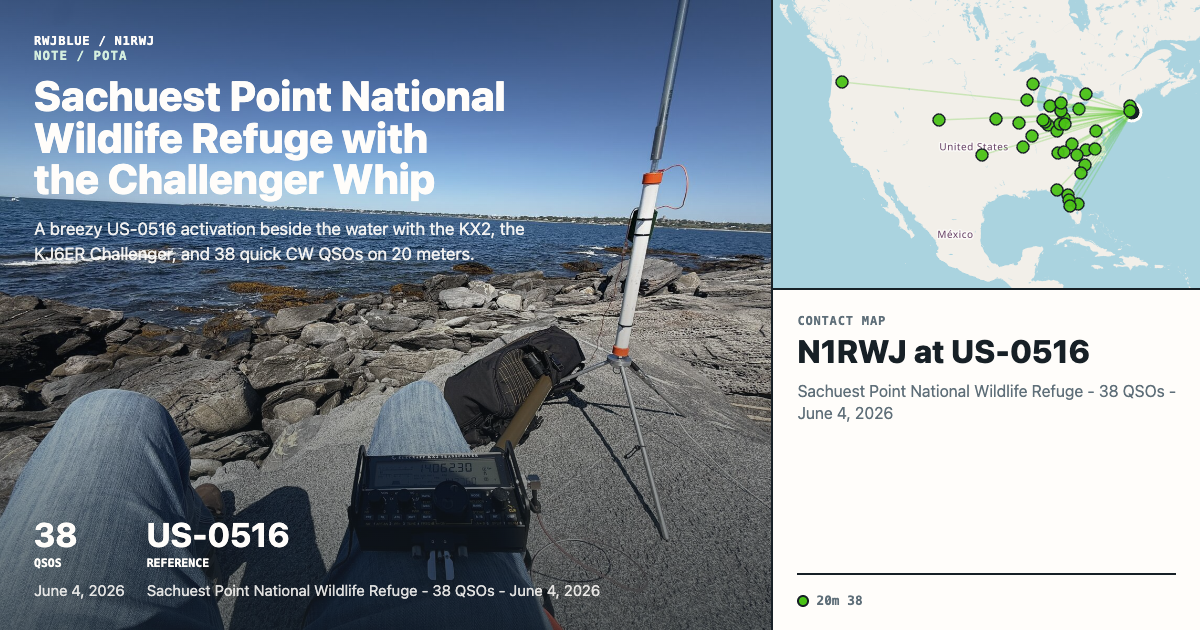
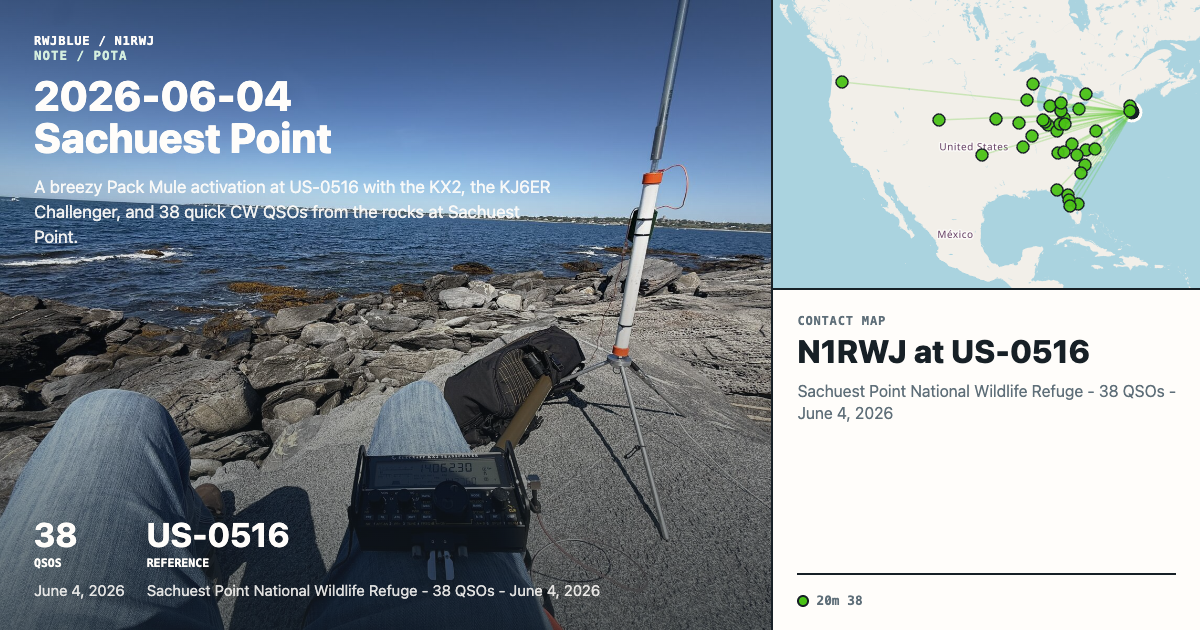
Refine Sachuest Point field note
Tighten the Sachuest Point Pack Mule note after review by shortening the title, improving the setup and contact prose, and regenerating the share image.

Also update the POTA field-report skill so future notes link park references consistently wherever they appear.

Changed region(s): [[0.0308, 0.1206, 0.4625, 0.4222]]

diff --git a/src/content/notes/2026-06-04-sachuest-point-national-wildlife-refuge-pota.md b/src/content/notes/2026-06-04-sachuest-point-national-wildlife-refuge-pota.md
@@ -1,5 +1,5 @@
 ---
-title: Sachuest Point Pack Mule with the Challenger Whip
+title: 2026-06-04 Sachuest Point
 date: 2026-06-04
 summary: "A breezy Pack Mule activation at US-0516 with the KX2, the KJ6ER Challenger, and 38 quick CW QSOs from the rocks at Sachuest Point."
 shareImageHero: /images/pota/2026-06-04-sachuest-point-national-wildlife-refuge-pota/kx2-challenger-operating-position.jpg
@@ -13,20 +13,20 @@ tags:
   - us-0516
 ---
 
-Sachuest Point National Wildlife Refuge, [US-0516](https://pota.app/#/park/US-0516),
+[Sachuest Point National Wildlife Refuge, US-0516](https://pota.app/#/park/US-0516),
 was a good fit for a compressed morning. I had to be on Aquidneck Island anyway
 to pick up baked goods for my son's high school graduation, and I had about an
-hour to kill while the order was being finished. I hiked a little over half a
+hour and a half while the order was being finished. I hiked a little over half a
 mile each way into the refuge, out to Sachuest Point itself, which also made the
-activation count for Pack Mule. The weather made the decision easy: mid-60s
-when I arrived, mid-70s by the time I left, bright morning light, and a steady
-breeze coming in off the water.
+activation qualify for [Pack Mule](https://pota.news/pack-mule-award/). It was
+a beautiful morning: mid-60s when I arrived, mid-70s by the time I left, bright
+morning light, and a steady breeze coming in off the water.
 
 ## At a glance
 
-- **Where:** Sachuest Point National Wildlife Refuge, US-0516, Aquidneck Island
+- **Where:** [Sachuest Point National Wildlife Refuge, US-0516](https://pota.app/#/park/US-0516), Aquidneck Island
 - **When:** June 4, 2026, 14:16 to 15:23 UTC
-- **Activation:** Pack Mule; 38 CW QSOs on 20 meters
+- **Activation:** [Pack Mule](https://pota.news/pack-mule-award/); 38 CW QSOs on 20 meters
 - **Radio:** Elecraft KX2 with the internal battery
 - **Antenna:** KJ6ER Challenger 25-foot whip on the REZ Antenna Systems mini tripod
 - **Power:** 5 watts from the KX2 internal battery, about 0.4 Ah used
@@ -34,12 +34,12 @@ breeze coming in off the water.
 
 ## Field notes
 
-Sachuest is a wildlife refuge, so I treated the setup rules more strictly than
-I would at a typical park. No stakes in the ground, and no wires in trees. That
-ruled out the usual thrown wire or staked mast setup, so I used the KJ6ER
-Challenger instead. It is essentially a 25-foot whip arranged like an
-off-center-fed dipole, and it screwed into the small REZ tripod cleanly enough
-to make a compact, no-impact station.
+[Sachuest Point National Wildlife Refuge, US-0516](https://pota.app/#/park/US-0516),
+has stricter setup rules than a typical park. No stakes in the ground, and no
+wires in trees. The Challenger is a great antenna and I use it often, but this
+site changed the base rather than the antenna: instead of staking it into the
+ground, I screwed the KJ6ER Challenger into the small REZ tripod and kept the
+whole station no-impact.
 
 I kept walking until I was out near the point, then stepped onto the big rocks
 along the shoreline and found one large, flat slab that worked like a natural
@@ -47,12 +47,19 @@ operating platform. The chair, radio, tripod, and antenna all fit on the rock,
 and the open water made the site feel much more exposed than a typical inland
 park.
 
+<div class="photo-grid photo-grid--single">
+  <img src="/images/pota/2026-06-04-sachuest-point-national-wildlife-refuge-pota/rocky-point-ocean-view.jpg" alt="Large flat shoreline rock used as the operating platform at Sachuest Point">
+</div>
+
 The only real mechanical concern was the wind. The operating spot was right on
 the water, and the breeze was steady enough that I did not want to trust the
 tripod on its own. Once the bag was unpacked, I set it over the tripod leg that
-was pointed into the wind. That worked perfectly for this site because the
-ocean breeze had one clear direction. I would not count on the same trick in
-swirling wind, but for a coastal morning like this it was simple and effective.
+was pointed into the wind. The bag probably weighs around 30 pounds fully
+loaded, and even after unpacking it still had at least 20 pounds of gear in it.
+Being a habitual over-packer helped for once. That worked perfectly for this
+site because the ocean breeze had one clear direction. I would not count on the
+same trick in swirling wind, but for a coastal morning like this it was simple
+and effective.
 
 <div class="photo-grid">
   <img src="/images/pota/2026-06-04-sachuest-point-national-wildlife-refuge-pota/challenger-station-shoreline.jpg" alt="KJ6ER Challenger whip on a mini tripod at the rocky Sachuest Point shoreline">
@@ -60,9 +67,12 @@ swirling wind, but for a coastal morning like this it was simple and effective.
 </div>
 
 I used the KX2 on its internal battery with the KXPD2 paddle and headphones.
-The headphones mattered. The wind and the waves made the spot beautiful, but
-they also made copy harder than it would have been in a quiet field or wooded
-site.
+The radio was balanced on my leg for the whole run, which worked, but it was
+the finicky part of the operating position. Every time I shifted I was aware
+that the KX2 could slide or tip if I was not careful. The headphones were not
+optional at that spot. The wind and surf were part of what made the morning so
+good, but they would have made weak CW much harder to copy through the KX2
+speaker alone.
 
 Once I found a place on 20 meters, the contacts came fast. I had only planned
 for about an hour, and the log filled almost continuously: 38 QSOs from
@@ -79,28 +89,32 @@ more and repeatedly calling CQ much less.
 CW copy felt better than it has on some recent activations. I still needed
 repeats, especially when a few stations came back at once, but I was able to
 pull one or two letters out of the pileups and build from there. I also copied
-several callsigns cleanly on the first pass. N8JMS and KF8CNK both made it in.
-Conor, KF8CNK, was camping in Michigan with limited cell service, which made
-that one especially fun to catch.
+several callsigns cleanly on the first pass.
 
-One small CW detail still makes me grin: when friends send a proper roger with
-that elongated dah in the R, it sounds fantastic. I cannot really send it from
-paddles without switching into a bug-style mode, but hearing it makes me want
-to spend more time with a straight key, bug, or cootie key.
+It was great to get a few friends in the log this morning also. Today I got
+some friends from Discord [N8JMS](https://www.qrz.com/db/N8JMS) and
+[KF8CNK](https://www.qrz.com/db/KF8CNK), along with
+[N1BS](https://www.qrz.com/db/N1BS) (a local Rhode Island ham who has been
+helping me get into RI POTA and CW generally). It is always fun to get people I
+know in the log. Conor, KF8CNK, has been camping in another POTA park in
+Michigan with limited cell service, it was great to get him for a park-to-park.
+
+One small CW detail still makes me grin: when folks send me the [proper
+roger](https://www.youtube.com/shorts/vQuyDHZ7Wv0) with that elongated dah in
+the R, it sounds fantastic. I cannot really send it from paddles without
+switching into a bug-style mode, but hearing it makes me want to spend more
+time with a straight key, bug, or cootie key. Thanks for the proper roger
+N8JMS!
 
 <div class="photo-grid">
   <img src="/images/pota/2026-06-04-sachuest-point-national-wildlife-refuge-pota/operator-rocky-shoreline.jpg" alt="N1RWJ at the rocky Sachuest Point shoreline after the activation">
   <img src="/images/pota/2026-06-04-sachuest-point-national-wildlife-refuge-pota/beach-roses-shoreline.jpg" alt="Pink beach roses blooming along the Sachuest Point shoreline trail">
 </div>
 
-<div class="photo-grid photo-grid--single">
-  <img src="/images/pota/2026-06-04-sachuest-point-national-wildlife-refuge-pota/rocky-point-ocean-view.jpg" alt="Rocky ocean view from the Sachuest Point operating area">
-</div>
-
 ## What worked
 
-- The Challenger and mini tripod gave me a no-stakes, no-tree setup that fit the refuge rules.
-- The half-mile-plus hike each way and 38 QSOs made this a Pack Mule activation.
+- The Challenger on the mini tripod gave me a no-stakes, no-tree setup that fit the refuge rules.
+- The half-mile-plus hike each way and 38 QSOs made this a [Pack Mule](https://pota.news/pack-mule-award/) activation.
 - The flat shoreline rock made a stable natural platform for the chair, radio, and antenna.
 - Anchoring the windward tripod leg with the gear bag was enough for the steady coastal breeze.
 - Headphones were the right choice with wind and surf noise at the operating spot.
@@ -109,5 +123,6 @@ to spend more time with a straight key, bug, or cootie key.
 ## To adjust next time
 
 - Do not assume the bag-on-tripod-leg trick will work unless the wind has one stable direction.
-- Bring the Challenger setup back for other no-stakes or no-tree sites.
+- Keep the tripod base option handy for other no-stakes or no-tree sites.
+- Find a kneeboard or leg strap so the KX2 is not just balanced on my leg.
 - Keep practicing pileup copy; pulling partial calls out of the noise is starting to feel more repeatable.

diff --git a/.agents/skills/pota-field-report/SKILL.md b/.agents/skills/pota-field-report/SKILL.md
@@ -102,6 +102,12 @@ Good field reports usually include:
 - One or two grounded observations about conditions, ergonomics, or workflow.
 - A short note about what to repeat or adjust next time.
 
+When naming a POTA park with its reference anywhere in the note, link that
+park/reference text to the POTA park page, not only section headings. This
+includes first mentions, "At a glance" location bullets, and later repeated
+references when the park name/reference is useful to the reader:
+`[Park Name, US-1234](https://pota.app/#/park/US-1234)`.
+
 Prefer:
 
 - "I set the wire low because the site was busy..."